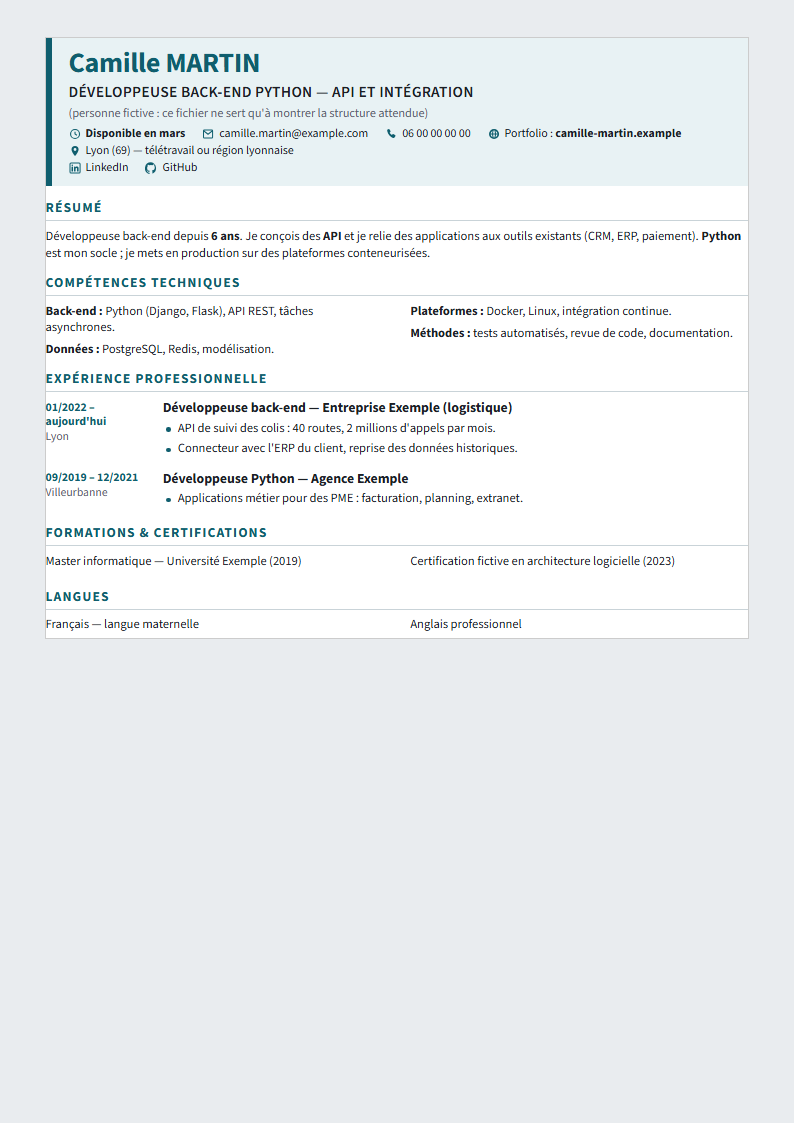
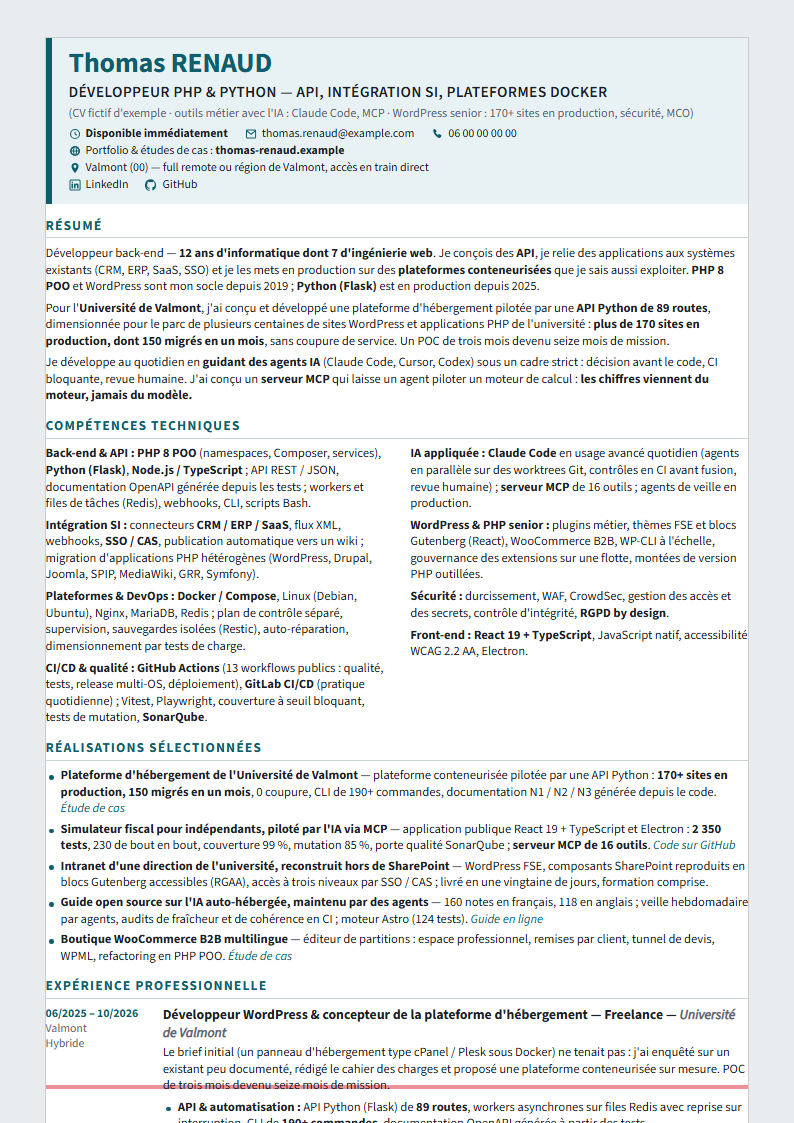
README : en-tête centré avec pastilles, vouvoiement, captures (tableau de bord avec statistiques et tri date puis note, détail d'une offre avec les critères, trois gabarits de CV), section « Automatiser la réception des alertes » avec Thunderbird et FiltaQuilla ; CV d'exemple réaliste et fictif (Tho

Changed region(s): [[0.0605, 0.0312, 0.937, 1.0], [0.8766, 0.8727, 0.9068, 0.9038]]

diff --git a/tests/init.test.ts b/tests/init.test.ts
@@ -76,10 +76,10 @@ describe('cv : Markdown -> HTML', () => {
   const html = cvEnHtml(md, { css: 'gabarit.css', portrait: null });
 
   it('construit l’en-tête : nom, titre, contacts en trois rangées', () => {
-    expect(html).toContain('<h1>Camille MARTIN</h1>');
-    expect(html).toContain('<div class="headline">DÉVELOPPEUSE BACK-END PYTHON');
-    expect(html).toMatch(/<ul class="contacts">[\s\S]*camille\.martin@example\.com/);
-    expect(html).toMatch(/<ul class="contacts contacts-address">[\s\S]*Lyon \(69\)/);
+    expect(html).toContain('<h1>Thomas RENAUD</h1>');
+    expect(html).toContain('<div class="headline">DÉVELOPPEUR PHP &amp; PYTHON');
+    expect(html).toMatch(/<ul class="contacts">[\s\S]*thomas.renaud@example\.com/);
+    expect(html).toMatch(/<ul class="contacts contacts-address">[\s\S]*Valmont \(00\)/);
     expect(html).toMatch(/<ul class="contacts contacts-profiles">[\s\S]*LinkedIn[\s\S]*GitHub/);
     expect(html).not.toContain('class="portrait"');
   });
@@ -94,7 +94,7 @@ describe('cv : Markdown -> HTML', () => {
     expect(html).toContain('<section class="two-col"><h2>Compétences Techniques</h2>');
     expect(html).toContain('<section class="two-col"><h2>Langues</h2>');
     expect(html).toContain('<section class=""><h2>Résumé</h2>');
-    expect(html).toContain('<p class="job-role"><strong>Développeuse back-end — Entreprise Exemple');
+    expect(html).toContain('<p class="job-role"><strong>Développeur WordPress &amp; concepteur de la plateforme');
   });
 });
 

diff --git a/README.md b/README.md
@@ -1,42 +1,67 @@
+<div align="center">
+
 # postuler-juste
 
-**Ta recherche d'emploi ou de missions, pilotée par ton IA, sans jamais te faire mentir.**
+**Votre recherche d'emploi ou de missions, pilotée par votre IA, sans jamais vous faire mentir.**
 
-postuler-juste est un kit local pour chercher un CDI ou des missions freelance avec un agent IA (Claude Code, Cursor, Codex…). L'IA trie les offres reçues par alertes e-mail, note chacune avec **ta** grille, prépare les candidatures que tu valides (dossier, CV ciblé, message) et tient le suivi. Tout reste sur ton ordinateur.
+[![Licence : MIT](https://img.shields.io/badge/licence-MIT-blue.svg)](LICENSE)
+[![Node.js ≥ 24](https://img.shields.io/badge/Node.js-%E2%89%A5%2024-339933?logo=nodedotjs&logoColor=white)](https://nodejs.org)
+[![TypeScript](https://img.shields.io/badge/TypeScript-3178C6?logo=typescript&logoColor=white)](https://www.typescriptlang.org)
+[![SQLite](https://img.shields.io/badge/SQLite-local-003B57?logo=sqlite&logoColor=white)](https://nodejs.org/api/sqlite.html)
+[![MCP](https://img.shields.io/badge/serveur-MCP-6E56CF)](https://modelcontextprotocol.io)
+[![Agents](https://img.shields.io/badge/agents-Claude%20Code%20%C2%B7%20Cursor%20%C2%B7%20Codex-D97757)](#ce-quil-faut)
+[![Langue](https://img.shields.io/badge/langue-FR-0A7EA4)](#in-english)
+[![Données](https://img.shields.io/badge/donn%C3%A9es-100%20%25%20locales-2EA043)](#confidentialité)
+
+</div>
+
+---
+
+postuler-juste est un kit local pour chercher un CDI ou des missions freelance avec un agent IA (Claude Code, Cursor, Codex…). L'IA trie les offres reçues par alertes e-mail, note chacune avec **votre** grille, prépare les candidatures que vous validez (dossier, CV ciblé, message) et tient le suivi. Tout reste sur votre ordinateur.
 
 Postuler *juste*, dans les deux sens :
 
-- **juste comme ciblé** : une grille de notation transparente et réglable (poids, plancher de rémunération, télétravail, règles bloquantes) ne te présente que les offres qui valent le coup ;
-- **juste comme honnête** : l'IA s'appuie sur un inventaire de ce que tu peux revendiquer ou non, construit avec toi au démarrage. Elle n'écrit dans un CV que ce que tu peux défendre en entretien.
+- **juste comme ciblé** : une grille de notation transparente et réglable (poids, plancher de rémunération, télétravail, règles bloquantes) ne vous présente que les offres qui valent le coup ;
+- **juste comme honnête** : l'IA s'appuie sur un inventaire de ce que vous pouvez revendiquer ou non, construit avec vous au démarrage. Elle n'écrit dans un CV que ce que vous pouvez défendre en entretien.
 
 ## Comment ça marche
 
 ```
-alertes e-mail (.eml)  →  tri et notation par l'IA (grille)  →  tes « go »
-        →  dossier + CV ciblé (PDF 2 pages) + message  →  envoi par toi  →  suivi (journal, échéances, relances)
+alertes e-mail (.eml)  →  tri et notation par l'IA (votre grille)  →  vos « go »
+        →  dossier + CV ciblé (PDF, 2 pages) + message  →  envoi par vous  →  suivi (journal, échéances, relances)
 ```
 
-1. **Démarrage guidé** : tu déposes ton CV (et l'export PDF de ton profil LinkedIn) dans `a-deposer/`. L'IA les lit, lit tes pages publiques si elle le peut, puis t'interroge par petits groupes de questions : cibles, parcours, preuves, ce qui vend, risques, interdits, conditions. Elle en tire ton **contexte** (`_CONTEXTE.md`), ta **grille** et un premier **CV**, que tu valides.
-2. **Tri des alertes** : un filtre de ta messagerie enregistre les alertes (LinkedIn, Indeed, Glassdoor, Hellowork, Free-Work…) dans `emails/`. L'IA les ingère, écarte le hors-cible, note le reste critère par critère (l'application calcule la note), et te présente les meilleures offres.
-3. **Candidatures** : sur ton « go », l'IA prépare le dossier, un CV ciblé qui tient en deux pages et le message adapté au formulaire et à sa limite de caractères. **C'est toi qui envoies.**
-4. **Suivi** : tu racontes (« envoyé hier », « entretien jeudi 14 h ») ; l'IA tient le journal, les échéances et le tableau de suivi.
+1. **Démarrage guidé** : vous déposez votre CV (et l'export PDF de votre profil LinkedIn) dans `a-deposer/`. L'IA les lit, consulte vos pages publiques si elle le peut, puis vous interroge par petits groupes de questions : cibles, parcours, preuves, ce qui vous distingue, risques, interdits, conditions. Elle en tire votre **contexte** (`_CONTEXTE.md`), votre **grille** et un premier **CV**, que vous validez.
+2. **Tri des alertes** : un filtre de votre messagerie enregistre les alertes (LinkedIn, Indeed, Glassdoor, Hellowork, Free-Work…) dans `emails/` (voir [Automatiser la réception des alertes](#automatiser-la-réception-des-alertes)). L'IA les ingère, écarte le hors-cible, note le reste critère par critère (l'application calcule la note) et vous présente les meilleures offres.
+3. **Candidatures** : sur votre « go », l'IA prépare le dossier, un CV ciblé qui tient en deux pages et le message adapté au formulaire et à sa limite de caractères. **C'est vous qui envoyez.**
+4. **Suivi** : vous racontez (« envoyé hier », « entretien jeudi à 14 h ») ; l'IA tient le journal, les échéances et le tableau de suivi.
 
-![Tableau de bord : offres notées, échéances à venir](docs/captures/tableau-de-bord.png)
+L'application **n'appelle aucun modèle d'IA** : c'est votre agent qui lit et rédige, l'application garde l'état (base SQLite, tableau de bord web, CLI, serveur MCP).
 
-*Le tableau de bord (données fictives) : notes calculées par la grille, statuts, échéances à venir.*
+![Tableau de bord : offres triées par date puis par note, échéances à venir, statistiques](docs/captures/tableau-de-bord.png)
 
-Trois gabarits de CV sont fournis (« sobre », « moderne », « compact ») ; l'IA peut aussi adapter la feuille de style à un modèle que tu lui montres.
+*Le tableau de bord (données fictives) : offres triées par date de réception puis par note, échéances des sept prochains jours, candidatures par étape.*
 
-<img src="docs/captures/cv-moderne.png" alt="CV fictif rendu avec le gabarit « moderne »" width="420">
+![Détail d'une offre : décomposition de la note critère par critère](docs/captures/detail-offre.png)
 
-L'application **n'appelle aucun modèle d'IA** : c'est ton agent qui lit et rédige, l'application garde l'état (base SQLite, tableau de bord web, CLI, serveur MCP).
+*Le détail d'une offre : chaque critère, sa sous-note, son poids et son apport à la note finale, avec la justification de l'IA.*
+
+### Les CV
+
+Les CV s'écrivent en Markdown et sortent en PDF A4 de deux pages, avec trois gabarits fournis : « sobre » (à empattements), « moderne » (bandeau de couleur) et « compact » (une colonne, dense). L'IA peut aussi adapter la feuille de style à un modèle que vous lui montrez.
+
+<div align="center">
+<img src="docs/captures/cv-sobre.png" alt="CV fictif, gabarit « sobre »" width="32%">
+<img src="docs/captures/cv-moderne.png" alt="CV fictif, gabarit « moderne »" width="32%">
+<img src="docs/captures/cv-compact.png" alt="CV fictif, gabarit « compact »" width="32%">
+</div>
 
 ## Ce qu'il faut
 
 - **Node.js 24** ou plus.
 - **Chrome, Edge ou Chromium** (pour les CV en PDF).
 - **Un agent IA** qui travaille dans un dossier : Claude Code de préférence (serveur MCP et skills fournis) ; Cursor, Codex ou un autre agent lisent les mêmes consignes (`AGENTS.md`) et utilisent la CLI.
-- Facultatif : un **navigateur piloté par l'IA** avec tes sessions (par exemple Claude in Chrome), pour lire les offres LinkedIn, Indeed ou Glassdoor. Sans lui, tu colles le texte des offres quand l'IA le demande.
+- Facultatif : un **navigateur piloté par l'IA** avec vos sessions (par exemple Claude in Chrome), pour lire les offres LinkedIn, Indeed ou Glassdoor. Sans lui, vous collez le texte des offres quand l'IA le demande.
 
 ## Démarrer
 
@@ -48,17 +73,46 @@ npm run build
 node bin/postuler-juste.js init ~/ma-recherche
 ```
 
-`init` crée ton espace de travail et affiche le prompt de démarrage à donner à ton IA. Ensuite :
+`init` crée votre espace de travail (`--gabarit moderne` ou `compact` pour changer de gabarit de CV) et affiche le prompt de démarrage à donner à votre IA. Ensuite :
 
-1. glisse ton CV dans `~/ma-recherche/a-deposer/` ;
-2. ouvre ton IA dans `~/ma-recherche` (Claude Code : `cd ~/ma-recherche` puis `claude`, et accepte le serveur MCP) ;
-3. colle le prompt affiché par `init`.
+1. glissez votre CV dans `~/ma-recherche/a-deposer/` ;
+2. ouvrez votre IA dans `~/ma-recherche` (Claude Code : `cd ~/ma-recherche` puis `claude`, et acceptez le serveur MCP) ;
+3. collez le prompt affiché par `init`.
 
 Le démarrage se fait en deux sessions d'environ une demi-heure chacune.
 
+## Automatiser la réception des alertes
+
+L'IA traite les alertes qui se trouvent dans le dossier `emails/` de l'espace de travail, au format `.eml`. Vous pouvez y glisser les e-mails à la main depuis votre messagerie, mais le plus simple est un filtre qui le fait à chaque relève.
+
+1. Créez des **alertes** sur les sites d'emploi que vous utilisez (LinkedIn, Indeed, Glassdoor, Hellowork, Free-Work…), avec vos mots-clés.
+2. Configurez votre messagerie pour **enregistrer chaque alerte reçue en fichier `.eml` dans `emails/`**, puis la ranger dans un dossier à part.
+3. Demandez ensuite à votre IA de « traiter les e-mails » (ou cliquez sur « Traiter les e-mails » dans le tableau de bord, avec Claude Code). Les fichiers traités sont supprimés de `emails/`.
+
+### Exemple avec Thunderbird et FiltaQuilla
+
+Thunderbird ne sait pas enregistrer un message en fichier depuis un filtre ; l'extension [FiltaQuilla](https://addons.thunderbird.net/thunderbird/addon/filtaquilla/) ajoute cette action.
+
+**1. Installer et configurer FiltaQuilla**
+
+- Menu **Outils → Modules complémentaires et thèmes**, recherchez « FiltaQuilla » et installez l'extension.
+- Ouvrez ses **options** (Modules complémentaires → FiltaQuilla → Options). Dans la liste des actions, **activez « Save Message as File »** (enregistrer le message comme fichier) : elle est désactivée par défaut et n'apparaît pas dans les filtres tant qu'elle ne l'est pas.
+
+**2. Créer le filtre**
+
+- Menu **Outils → Filtres de messages**, choisissez le compte qui reçoit les alertes, puis **Nouveau**.
+- Nommez-le, par exemple « Alertes offres ».
+- Choisissez **« Remplir une des conditions suivantes »** et ajoutez une condition **Expéditeur → contient → l'adresse d'envoi des alertes** de chaque site (ouvrez une alerte reçue pour la relever).
+- Dans **« Exécuter ces actions »** :
+  1. **Save Message as File** : choisissez le dossier `emails/` de votre espace de travail (par exemple `~/ma-recherche/emails`) ;
+  2. *(facultatif)* **Déplacer le message vers** un sous-dossier, par exemple « Alertes traitées » : vous voyez ainsi dans Thunderbird ce qui a déjà été transmis.
+- Laissez le filtre s'appliquer à la **relève du courrier**. Pour les alertes déjà reçues : sélectionnez le filtre, puis **Exécuter maintenant** sur le dossier de réception.
+
+Avec une autre messagerie, l'idée est la même : toute règle ou tout script capable d'enregistrer un message au format `.eml` dans `emails/` convient.
+
 ## Confidentialité
 
-Ton espace de travail (CV, contexte, base, candidatures) reste sur ton disque. Rien n'est envoyé ailleurs que vers l'IA que tu utilises. L'application ne télécharge que les pages publiques des offres Hellowork et Free-Work ; elle ne lit jamais LinkedIn, Indeed ni Glassdoor par script.
+Votre espace de travail (CV, contexte, base, candidatures) reste sur votre disque. Rien n'est envoyé ailleurs que vers l'IA que vous utilisez. L'application ne télécharge que les pages publiques des offres Hellowork et Free-Work ; elle ne lit jamais LinkedIn, Indeed ni Glassdoor par script.
 
 ## Référence
 

diff --git a/modele/cv/_exemple-structure.md b/modele/cv/_exemple-structure.md
@@ -1,51 +1,92 @@
-# Camille MARTIN
+# Thomas RENAUD
 
-**DÉVELOPPEUSE BACK-END PYTHON — API ET INTÉGRATION**
-*(personne fictive : ce fichier ne sert qu'à montrer la structure attendue)*
+**DÉVELOPPEUR PHP & PYTHON — API, INTÉGRATION SI, PLATEFORMES DOCKER**
+*(CV fictif d'exemple · outils métier avec l'IA : Claude Code, MCP · WordPress senior : 170+ sites en production, sécurité, MCO)*
 
-**Disponible en mars** · camille.martin@example.com · 06 00 00 00 00
-Portfolio : **[camille-martin.example](https://camille-martin.example)**
-Lyon (69) — télétravail ou région lyonnaise
+**Disponible immédiatement** · thomas.renaud@example.com · 06 00 00 00 00
+Portfolio & études de cas : **[thomas-renaud.example](https://thomas-renaud.example)**
+Valmont (00) — full remote ou région de Valmont, accès en train direct
 [LinkedIn](https://www.linkedin.com/in/exemple) · [GitHub](https://github.com/exemple)
 
 ---
 
 ## Résumé
 
-Développeuse back-end depuis **6 ans**. Je conçois des **API** et je relie des applications aux outils existants (CRM, ERP, paiement). **Python** est mon socle ; je mets en production sur des plateformes conteneurisées.
+Développeur back-end — **12 ans d'informatique dont 7 d'ingénierie web**. Je conçois des **API**, je relie des applications aux systèmes existants (CRM, ERP, SaaS, SSO) et je les mets en production sur des **plateformes conteneurisées** que je sais aussi exploiter. **PHP 8 POO** et WordPress sont mon socle depuis 2019 ; **Python (Flask)** est en production depuis 2025.
+
+Pour l'**Université de Valmont**, j'ai conçu et développé une plateforme d'hébergement pilotée par une **API Python de 89 routes**, dimensionnée pour le parc de plusieurs centaines de sites WordPress et applications PHP de l'université : **plus de 170 sites en production, dont 150 migrés en un mois**, sans coupure de service. Un POC de trois mois devenu seize mois de mission.
+
+Je développe au quotidien en **guidant des agents IA** (Claude Code, Cursor, Codex) sous un cadre strict : décision avant le code, CI bloquante, revue humaine. J'ai conçu un **serveur MCP** qui laisse un agent piloter un moteur de calcul : **les chiffres viennent du moteur, jamais du modèle.**
 
 ---
 
 ## Compétences Techniques
 
-*   **Back-end :** Python (Django, Flask), API REST, tâches asynchrones.
-*   **Données :** PostgreSQL, Redis, modélisation.
-*   **Plateformes :** Docker, Linux, intégration continue.
-*   **Méthodes :** tests automatisés, revue de code, documentation.
+*   **Back-end & API :** **PHP 8 POO** (namespaces, Composer, services), **Python (Flask)**, **Node.js / TypeScript** ; API REST / JSON, documentation OpenAPI générée depuis les tests ; workers et files de tâches (Redis), webhooks, CLI, scripts Bash.
+*   **Intégration SI :** connecteurs **CRM / ERP / SaaS**, flux XML, webhooks, **SSO / CAS**, publication automatique vers un wiki ; migration d'applications PHP hétérogènes (WordPress, Drupal, Joomla, SPIP, MediaWiki, GRR, Symfony).
+*   **Plateformes & DevOps :** **Docker / Compose**, Linux (Debian, Ubuntu), Nginx, MariaDB, Redis ; plan de contrôle séparé, supervision, sauvegardes isolées (Restic), auto-réparation, dimensionnement par tests de charge.
+*   **CI/CD & qualité :** **GitHub Actions** (13 workflows publics : qualité, tests, release multi-OS, déploiement), **GitLab CI/CD** (pratique quotidienne) ; Vitest, Playwright, couverture à seuil bloquant, tests de mutation, **SonarQube**.
+*   **IA appliquée :** **Claude Code** en usage avancé quotidien (agents en parallèle sur des worktrees Git, contrôles en CI avant fusion, revue humaine) ; **serveur MCP** de 16 outils ; agents de veille en production.
+*   **WordPress & PHP senior :** plugins métier, thèmes FSE et blocs Gutenberg (React), WooCommerce B2B, WP-CLI à l'échelle, gouvernance des extensions sur une flotte, montées de version PHP outillées.
+*   **Sécurité :** durcissement, WAF, CrowdSec, gestion des accès et des secrets, contrôle d'intégrité, **RGPD by design**.
+*   **Front-end :** **React 19 + TypeScript**, JavaScript natif, accessibilité WCAG 2.2 AA, Electron.
 
 ---
 
+## Réalisations sélectionnées
+
+*   **Plateforme d'hébergement de l'Université de Valmont** — plateforme conteneurisée pilotée par une API Python : **170+ sites en production, 150 migrés en un mois**, 0 coupure, CLI de 190+ commandes, documentation N1 / N2 / N3 générée depuis le code. *[Étude de cas](https://thomas-renaud.example)*
+*   **Simulateur fiscal pour indépendants, piloté par l'IA via MCP** — application publique React 19 + TypeScript et Electron : **2 350 tests**, 230 de bout en bout, couverture 99 %, mutation 85 %, porte qualité SonarQube ; **serveur MCP de 16 outils**. *[Code sur GitHub](https://github.com/exemple)*
+*   **Intranet d'une direction de l'université, reconstruit hors de SharePoint** — WordPress FSE, composants SharePoint reproduits en blocs Gutenberg accessibles (RGAA), accès à trois niveaux par SSO / CAS ; livré en une vingtaine de jours, formation comprise.
+*   **Guide open source sur l'IA auto-hébergée, maintenu par des agents** — 160 notes en français, 118 en anglais ; veille hebdomadaire par agents, audits de fraîcheur et de cohérence en CI ; moteur Astro (124 tests). *[Guide en ligne](https://thomas-renaud.example)*
+*   **Boutique WooCommerce B2B multilingue** — éditeur de partitions : espace professionnel, remises par client, tunnel de devis, WPML, refactoring en PHP POO. *[Étude de cas](https://thomas-renaud.example)*
+
+<!-- saut-de-page -->
+
 ## Expérience Professionnelle
 
-### 01/2022 – aujourd'hui · Lyon
-**Développeuse back-end — Entreprise Exemple (logistique)**
-*   API de suivi des colis : 40 routes, 2 millions d'appels par mois.
-*   Connecteur avec l'ERP du client, reprise des données historiques.
+### 06/2025 – 10/2026 · Valmont · Hybride
+**Développeur WordPress & concepteur de la plateforme d'hébergement — Freelance** — *Université de Valmont*
 
-### 09/2019 – 12/2021 · Villeurbanne
-**Développeuse Python — Agence Exemple**
-*   Applications métier pour des PME : facturation, planning, extranet.
+Le brief initial (un panneau d'hébergement type cPanel / Plesk sous Docker) ne tenait pas : j'ai enquêté sur un existant peu documenté, rédigé le cahier des charges et proposé une plateforme conteneurisée sur mesure. POC de trois mois devenu seize mois de mission.
+
+*   **API & automatisation :** API Python (Flask) de **89 routes**, workers asynchrones sur files Redis avec reprise sur interruption, CLI de **190+ commandes**, documentation OpenAPI générée à partir des tests.
+*   **Production :** **plus de 170 sites en production, dont 150 migrés en un mois** (WordPress, Drupal, Joomla, SPIP, MediaWiki, GRR, Symfony, PHP sur mesure), bascule site par site avec retour arrière, 0 coupure ; circuit de validation institutionnel intégré à l'automatisation.
+*   **Sécurité & résilience :** plan de contrôle séparé, WAF, CrowdSec, sauvegardes isolées, auto-réparation ; dimensionnement par **tests de charge jusqu'à 250 sites sur un seul nœud**.
+*   **WordPress à l'échelle :** thème institutionnel FSE déployé par défaut, MU-plugins de durcissement, extensions imposées ou interdites sur toute la flotte ; intranet d'une direction livré en ~20 jours.
+*   **Équipe :** arbitrages avec la sécurité, les systèmes et les métiers ; encadrement d'un développeur, revues de code ; documentation publiée automatiquement sur le wiki de la DSI.
+
+### 01/2019 – aujourd'hui · Remote / région de Valmont
+**Développeur PHP, Python & WordPress senior — Indépendant**
+
+Missions pour des PME, agences, collectivités et institutions, du recueil du besoin à la mise en production.
+
+*   **Intégration SI & API :** CRM, ERP et SaaS via API REST / JSON, flux XML, webhooks, listes de diffusion (HubSpot, Brevo).
+*   **Développement sur mesure :** plugins métier PHP 8 POO, ATS avec back-office RH, cartographie interactive, boutiques WooCommerce B2B.
+*   **Reprise & production :** reprise de code d'autres prestataires, dette technique, incidents critiques, migrations de CMS et de versions PHP, durcissement.
+*   **Produit :** simulateur fiscal TypeScript conçu, testé et publié en guidant des agents IA.
+
+### 2016 – 2017 · Valmont
+**Projet R&D IoT & systèmes embarqués (C/C++)**
+
+Prototypage matériel et logiciel d'un écosystème connecté, en binôme : flotte de microcontrôleurs **Arduino** communiquant **par radio** avec un nœud central, **protocole sur mesure**, interface de pilotage bidirectionnelle.
+
+### 01/2014 – 04/2016 · Valmont
+**Technicien informatique & systèmes — Indépendant**
+
+*   **Administration Linux & matériel :** **serveurs Linux haute performance** (calcul GPU intensif), nano-serveurs (Raspberry Pi, NAS, firewalls).
+*   **Systèmes, réseaux & support :** réseaux locaux sécurisés, sauvegardes automatisées, récupération de données, dépannage.
 
 ---
 
 ## Formations & Certifications
 
-*   Master informatique — Université Exemple (2019)
-*   Certification fictive en architecture logicielle (2023)
-
----
+*   **Diplôme d'ingénieur en informatique** — École nationale d'ingénieurs de Valmont (2013)
+*   **Formation Docker & Kubernetes** (2025)
+*   **Certification PHP** (2023)
+*   **Top 5 % des évaluations LinkedIn** (2022) : WordPress, PHP, développement front-end
 
 ## Langues
 
-*   Français — langue maternelle
+*   Français natif
 *   Anglais professionnel
